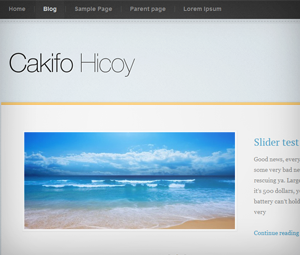
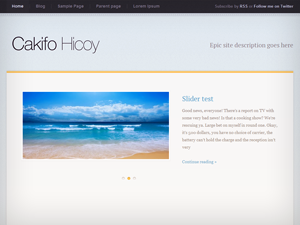
Modernizr 2.0

diff --git a/js/modernizr-2.0.min.js b/js/modernizr-2.0.min.js
@@ -1,0 +1,4 @@
+/* Modernizr 2.0 (Custom Build) | MIT & BSD
+ * Contains: fontface | backgroundsize | borderimage | borderradius | boxshadow | flexbox | hsla | multiplebgs | opacity | rgba | textshadow | cssanimations | csscolumns | generatedcontent | cssgradients | cssreflections | csstransforms | csstransforms3d | csstransitions | applicationcache | canvas | canvastext | draganddrop | hashchange | history | audio | video | indexeddb | input | inputtypes | localstorage | postmessage | sessionstorage | websockets | websqldatabase | webworkers | geolocation | inlinesvg | smil | svg | svgclippaths | touch | webgl | iepp | mq | cssclasses | teststyles | testprop | testallprops | hasevent | prefixes | domprefixes | load
+ */
+;window.Modernizr=function(a,b,c){function I(){e.input=function(a){for(var b=0,c=a.length;b<c;b++)t[a[b]]=a[b]in l;return t}("autocomplete autofocus list placeholder max min multiple pattern required step".split(" ")),e.inputtypes=function(a){for(var d=0,e,f,h,i=a.length;d<i;d++)l.setAttribute("type",f=a[d]),e=l.type!=="text",e&&(l.value=m,l.style.cssText="position:absolute;visibility:hidden;",/^range$/.test(f)&&l.style.WebkitAppearance!==c?(g.appendChild(l),h=b.defaultView,e=h.getComputedStyle&&h.getComputedStyle(l,null).WebkitAppearance!=="textfield"&&l.offsetHeight!==0,g.removeChild(l)):/^(search|tel)$/.test(f)||(/^(url|email)$/.test(f)?e=l.checkValidity&&l.checkValidity()===!1:/^color$/.test(f)?(g.appendChild(l),g.offsetWidth,e=l.value!=m,g.removeChild(l)):e=l.value!=m)),s[a[d]]=!!e;return s}("search tel url email datetime date month week time datetime-local number range color".split(" "))}function G(a,b){var c=a.charAt(0).toUpperCase()+a.substr(1),d=(a+" "+p.join(c+" ")+c).split(" ");return F(d,b)}function F(a,b){for(var d in a)if(k[a[d]]!==c)return b=="pfx"?a[d]:!0;return!1}function E(a,b){return!!~(""+a).indexOf(b)}function D(a,b){return typeof a===b}function C(a,b){return B(o.join(a+";")+(b||""))}function B(a){k.cssText=a}var d="2.0",e={},f=!0,g=b.documentElement,h=b.head||b.getElementsByTagName("head")[0],i="modernizr",j=b.createElement(i),k=j.style,l=b.createElement("input"),m=":)",n=Object.prototype.toString,o=" -webkit- -moz- -o- -ms- -khtml- ".split(" "),p="Webkit Moz O ms Khtml".split(" "),q={svg:"http://www.w3.org/2000/svg"},r={},s={},t={},u=[],v=function(a,c,d,e){var f,h,j,k=b.createElement("div");if(parseInt(d,10))while(d--)j=b.createElement("div"),j.id=e?e[d]:i+(d+1),k.appendChild(j);f=["&shy;","<style>",a,"</style>"].join(""),k.id=i,k.innerHTML+=f,g.appendChild(k),h=c(k,a),k.parentNode.removeChild(k);return!!h},w=function(b){if(a.matchMedia)return matchMedia(b).matches;var c;v("@media "+b+" { #"+i+" { position: absolute; } }",function(b){c=(a.getComputedStyle?getComputedStyle(b,null):b.currentStyle).position=="absolute"});return c},x=function(){function d(d,e){e=e||b.createElement(a[d]||"div"),d="on"+d;var f=d in e;f||(e.setAttribute||(e=b.createElement("div")),e.setAttribute&&e.removeAttribute&&(e.setAttribute(d,""),f=D(e[d],"function"),D(e[d],c)||(e[d]=c),e.removeAttribute(d))),e=null;return f}var a={select:"input",change:"input",submit:"form",reset:"form",error:"img",load:"img",abort:"img"};return d}(),y,z={}.hasOwnProperty,A;!D(z,c)&&!D(z.call,c)?A=function(a,b){return z.call(a,b)}:A=function(a,b){return b in a&&D(a.constructor.prototype[b],c)};var H=function(c,d){var f=c.join(""),g=d.length;v(f,function(c,d){var f=b.styleSheets[b.styleSheets.length-1],h=f.cssText||f.cssRules[0].cssText,i=c.childNodes,j={};while(g--)j[i[g].id]=i[g];e.touch="ontouchstart"in a||j.touch.offsetTop===9,e.csstransforms3d=j.csstransforms3d.offsetLeft===9,e.generatedcontent=j.generatedcontent.offsetHeight>=1,e.fontface=/src/i.test(h)&&h.indexOf(d.split(" ")[0])===0},g,d)}(['@font-face {font-family:"font";src:url("//:")}',["@media (",o.join("touch-enabled),("),i,")","{#touch{top:9px;position:absolute}}"].join(""),["@media (",o.join("transform-3d),("),i,")","{#csstransforms3d{left:9px;position:absolute}}"].join(""),['#generatedcontent:after{content:"',m,'"}'].join("")],["fontface","touch","csstransforms3d","generatedcontent"]);r.flexbox=function(){function c(a,b,c,d){a.style.cssText=o.join(b+":"+c+";")+(d||"")}function a(a,b,c,d){b+=":",a.style.cssText=(b+o.join(c+";"+b)).slice(0,-b.length)+(d||"")}var d=b.createElement("div"),e=b.createElement("div");a(d,"display","box","width:42px;padding:0;"),c(e,"box-flex","1","width:10px;"),d.appendChild(e),g.appendChild(d);var f=e.offsetWidth===42;d.removeChild(e),g.removeChild(d);return f},r.canvas=function(){var a=b.createElement("canvas");return!!a.getContext&&!!a.getContext("2d")},r.canvastext=function(){return!!e.canvas&&!!D(b.createElement("canvas").getContext("2d").fillText,"function")},r.webgl=function(){return!!a.WebGLRenderingContext},r.touch=function(){return e.touch},r.geolocation=function(){return!!navigator.geolocation},r.postmessage=function(){return!!a.postMessage},r.websqldatabase=function(){var b=!!a.openDatabase;return b},r.indexedDB=function(){for(var b=-1,c=p.length;++b<c;)if(a[p[b].toLowerCase()+"IndexedDB"])return!0;return!!a.indexedDB},r.hashchange=function(){return x("hashchange",a)&&(b.documentMode===c||b.documentMode>7)},r.history=function(){return!!a.history&&!!history.pushState},r.draganddrop=function(){return x("dragstart")&&x("drop")},r.websockets=function(){for(var b=-1,c=p.length;++b<c;)if(a[p[b]+"WebSocket"])return!0;return"WebSocket"in a},r.rgba=function(){B("background-color:rgba(150,255,150,.5)");return E(k.backgroundColor,"rgba")},r.hsla=function(){B("background-color:hsla(120,40%,100%,.5)");return E(k.backgroundColor,"rgba")||E(k.backgroundColor,"hsla")},r.multiplebgs=function(){B("background:url(//:),url(//:),red url(//:)");return/(url\s*\(.*?){3}/.test(k.background)},r.backgroundsize=function(){return G("backgroundSize")},r.borderimage=function(){return G("borderImage")},r.borderradius=function(){return G("borderRadius")},r.boxshadow=function(){return G("boxShadow")},r.textshadow=function(){return b.createElement("div").style.textShadow===""},r.opacity=function(){C("opacity:.55");return/^0.55$/.test(k.opacity)},r.cssanimations=function(){return G("animationName")},r.csscolumns=function(){return G("columnCount")},r.cssgradients=function(){var a="background-image:",b="gradient(linear,left top,right bottom,from(#9f9),to(white));",c="linear-gradient(left top,#9f9, white);";B((a+o.join(b+a)+o.join(c+a)).slice(0,-a.length));return E(k.backgroundImage,"gradient")},r.cssreflections=function(){return G("boxReflect")},r.csstransforms=function(){return!!F(["transformProperty","WebkitTransform","MozTransform","OTransform","msTransform"])},r.csstransforms3d=function(){var a=!!F(["perspectiveProperty","WebkitPerspective","MozPerspective","OPerspective","msPerspective"]);a&&"webkitPerspective"in g.style&&(a=e.csstransforms3d);return a},r.csstransitions=function(){return G("transitionProperty")},r.fontface=function(){return e.fontface},r.generatedcontent=function(){return e.generatedcontent},r.video=function(){var a=b.createElement("video"),c=!1;try{if(c=!!a.canPlayType){c=new Boolean(c),c.ogg=a.canPlayType('video/ogg; codecs="theora"');var d='video/mp4; codecs="avc1.42E01E';c.h264=a.canPlayType(d+'"')||a.canPlayType(d+', mp4a.40.2"'),c.webm=a.canPlayType('video/webm; codecs="vp8, vorbis"')}}catch(e){}return c},r.audio=function(){var a=b.createElement("audio"),c=!1;try{if(c=!!a.canPlayType)c=new Boolean(c),c.ogg=a.canPlayType('audio/ogg; codecs="vorbis"'),c.mp3=a.canPlayType("audio/mpeg;"),c.wav=a.canPlayType('audio/wav; codecs="1"'),c.m4a=a.canPlayType("audio/x-m4a;")||a.canPlayType("audio/aac;")}catch(d){}return c},r.localstorage=function(){try{return!!localStorage.getItem}catch(a){return!1}},r.sessionstorage=function(){try{return!!sessionStorage.getItem}catch(a){return!1}},r.webworkers=function(){return!!a.Worker},r.applicationcache=function(){return!!a.applicationCache},r.svg=function(){return!!b.createElementNS&&!!b.createElementNS(q.svg,"svg").createSVGRect},r.inlinesvg=function(){var a=b.createElement("div");a.innerHTML="<svg/>";return(a.firstChild&&a.firstChild.namespaceURI)==q.svg},r.smil=function(){return!!b.createElementNS&&/SVG/.test(n.call(b.createElementNS(q.svg,"animate")))},r.svgclippaths=function(){return!!b.createElementNS&&/SVG/.test(n.call(b.createElementNS(q.svg,"clipPath")))};for(var J in r)A(r,J)&&(y=J.toLowerCase(),e[y]=r[J](),u.push((e[y]?"":"no-")+y));e.input||I(),B(""),j=l=null,a.attachEvent&&function(){var a=b.createElement("div");a.innerHTML="<elem></elem>";return a.childNodes.length!==1}()&&function(a,b){function s(a){var b=-1;while(++b<g)a.createElement(f[b])}a.iepp=a.iepp||{};var d=a.iepp,e=d.html5elements||"abbr|article|aside|audio|canvas|datalist|details|figcaption|figure|footer|header|hgroup|mark|meter|nav|output|progress|section|summary|time|video",f=e.split("|"),g=f.length,h=new RegExp("(^|\\s)("+e+")","gi"),i=new RegExp("<(/*)("+e+")","gi"),j=/^\s*[\{\}]\s*$/,k=new RegExp("(^|[^\\n]*?\\s)("+e+")([^\\n]*)({[\\n\\w\\W]*?})","gi"),l=b.createDocumentFragment(),m=b.documentElement,n=m.firstChild,o=b.createElement("body"),p=b.createElement("style"),q=/print|all/,r;d.getCSS=function(a,b){if(a+""===c)return"";var e=-1,f=a.length,g,h=[];while(++e<f){g=a[e];if(g.disabled)continue;b=g.media||b,q.test(b)&&h.push(d.getCSS(g.imports,b),g.cssText),b="all"}return h.join("")},d.parseCSS=function(a){var b=[],c;while((c=k.exec(a))!=null)b.push(((j.exec(c[1])?"\n":c[1])+c[2]+c[3]).replace(h,"$1.iepp_$2")+c[4]);return b.join("\n")},d.writeHTML=function(){var a=-1;r=r||b.body;while(++a<g){var c=b.getElementsByTagName(f[a]),d=c.length,e=-1;while(++e<d)c[e].className.indexOf("iepp_")<0&&(c[e].className+=" iepp_"+f[a])}l.appendChild(r),m.appendChild(o),o.className=r.className,o.id=r.id,o.innerHTML=r.innerHTML.replace(i,"<$1font")},d._beforePrint=function(){p.styleSheet.cssText=d.parseCSS(d.getCSS(b.styleSheets,"all")),d.writeHTML()},d.restoreHTML=function(){o.innerHTML="",m.removeChild(o),m.appendChild(r)},d._afterPrint=function(){d.restoreHTML(),p.styleSheet.cssText=""},s(b),s(l);d.disablePP||(n.insertBefore(p,n.firstChild),p.media="print",p.className="iepp-printshim",a.attachEvent("onbeforeprint",d._beforePrint),a.attachEvent("onafterprint",d._afterPrint))}(a,b),e._version=d,e._prefixes=o,e._domPrefixes=p,e.mq=w,e.hasEvent=x,e.testProp=function(a){return F([a])},e.testAllProps=G,e.testStyles=v,g.className=g.className.replace(/\bno-js\b/,"")+(f?" js "+u.join(" "):"");return e}(this,this.document),function(a,b,c){function k(a){return!a||a=="loaded"||a=="complete"}function j(){var a=1,b=-1;while(p.length- ++b)if(p[b].s&&!(a=p[b].r))break;a&&g()}function i(a){var c=b.createElement("script"),d;c.src=a.s,c.onreadystatechange=c.onload=function(){!d&&k(c.readyState)&&(d=1,j(),c.onload=c.onreadystatechange=null)},m(function(){d||(d=1,j())},H.errorTimeout),a.e?c.onload():n.parentNode.insertBefore(c,n)}function h(a){var c=b.createElement("link"),d;c.href=a.s,c.rel="stylesheet",c.type="text/css",!a.e&&(w||r)?function a(b){m(function(){if(!d)try{b.sheet.cssRules.length?(d=1,j()):a(b)}catch(c){c.code==1e3||c.message=="security"||c.message=="denied"?(d=1,m(function(){j()},0)):a(b)}},0)}(c):(c.onload=function(){d||(d=1,m(function(){j()},0))},a.e&&c.onload()),m(function(){d||(d=1,j())},H.errorTimeout),!a.e&&n.parentNode.insertBefore(c,n)}function g(){var a=p.shift();q=1,a?a.t?m(function(){a.t=="c"?h(a):i(a)},0):(a(),j()):q=0}function f(a,c,d,e,f,h){function i(){!o&&k(l.readyState)&&(r.r=o=1,!q&&j(),l.onload=l.onreadystatechange=null,m(function(){u.removeChild(l)},0))}var l=b.createElement(a),o=0,r={t:d,s:c,e:h};l.src=l.data=c,!s&&(l.style.display="none"),l.width=l.height="0",a!="object"&&(l.type=d),l.onload=l.onreadystatechange=i,a=="img"?l.onerror=i:a=="script"&&(l.onerror=function(){r.e=r.r=1,g()}),p.splice(e,0,r),u.insertBefore(l,s?null:n),m(function(){o||(u.removeChild(l),r.r=r.e=o=1,j())},H.errorTimeout)}function e(a,b,c){var d=b=="c"?z:y;q=0,b=b||"j",C(a)?f(d,a,b,this.i++,l,c):(p.splice(this.i++,0,a),p.length==1&&g());return this}function d(){var a=H;a.loader={load:e,i:0};return a}var l=b.documentElement,m=a.setTimeout,n=b.getElementsByTagName("script")[0],o={}.toString,p=[],q=0,r="MozAppearance"in l.style,s=r&&!!b.createRange().compareNode,t=r&&!s,u=s?l:n.parentNode,v=a.opera&&o.call(a.opera)=="[object Opera]",w="webkitAppearance"in l.style,x=w&&"async"in b.createElement("script"),y=r?"object":v||x?"img":"script",z=w?"img":y,A=Array.isArray||function(a){return o.call(a)=="[object Array]"},B=function(a){return typeof a=="object"},C=function(a){return typeof a=="string"},D=function(a){return o.call(a)=="[object Function]"},E=[],F={},G,H;H=function(a){function f(a){var b=a.split("!"),c=E.length,d=b.pop(),e=b.length,f={url:d,origUrl:d,prefixes:b},g,h;for(h=0;h<e;h++)g=F[b[h]],g&&(f=g(f));for(h=0;h<c;h++)f=E[h](f);return f}function e(a,b,e,g,h){var i=f(a),j=i.autoCallback;if(!i.bypass){b&&(b=D(b)?b:b[a]||b[g]||b[a.split("/").pop().split("?")[0]]);if(i.instead)return i.instead(a,b,e,g,h);e.load(i.url,i.forceCSS||!i.forceJS&&/css$/.test(i.url)?"c":c,i.noexec),(D(b)||D(j))&&e.load(function(){d(),b&&b(i.origUrl,h,g),j&&j(i.origUrl,h,g)})}}function b(a,b){function c(a){if(C(a))e(a,h,b,0,d);else if(B(a))for(i in a)a.hasOwnProperty(i)&&e(a[i],h,b,i,d)}var d=!!a.test,f=d?a.yep:a.nope,g=a.load||a.both,h=a.callback,i;c(f),c(g),a.complete&&b.load(a.complete)}var g,h,i=this.yepnope.loader;if(C(a))e(a,0,i,0);else if(A(a))for(g=0;g<a.length;g++)h=a[g],C(h)?e(h,0,i,0):A(h)?H(h):B(h)&&b(h,i);else B(a)&&b(a,i)},H.addPrefix=function(a,b){F[a]=b},H.addFilter=function(a){E.push(a)},H.errorTimeout=1e4,b.readyState==null&&b.addEventListener&&(b.readyState="loading",b.addEventListener("DOMContentLoaded",G=function(){b.removeEventListener("DOMContentLoaded",G,0),b.readyState="complete"},0)),a.yepnope=d()}(this,this.document),Modernizr.load=function(){yepnope.apply(window,[].slice.call(arguments,0))};

diff --git a/style.dev.css b/style.dev.css
@@ -74,12 +74,12 @@ blockquote,
 .author-profile {
 	background: #f5f8f9 url(images/quote.png);
 	border: 1px solid #dde5e8; border-top: none;
+	border-radius: 5px;
 	color: #768D97;
 	margin: 25px auto; 
 	padding: 25px;
 	position: relative;
 	text-shadow: 0 1px 0 #fff;
-	border-radius: 5px;
 	-webkit-box-shadow: inset 0 0 20px #e8f0f4, 0px 1px 1px #dde5e8, 0px 0px 3px rgba(0, 0, 0, .05);
 	-moz-box-shadow: inset 0 0 20px #e8f0f4, 0px 1px 1px #dde5e8, 0px 0px 3px rgba(0, 0, 0, .05);
 	box-shadow: inset 0 0 20px #e8f0f4, 0px 1px 1px #dde5e8, 0px 0px 3px rgba(0, 0, 0, .05);
@@ -273,6 +273,7 @@ table {
 /**
  * Topbar
 **************************************/
+
 #topbar {
 	background: #333 url(images/topbar.png) repeat;
 	color: #999;	
@@ -421,7 +422,7 @@ table {
 
 #site-description {
 	color: #909090;
-	font: 18px 'PT Serif', Georgia, "Times New Roman", Times, serif;
+	font: 21px 'PT Serif', Georgia, "Times New Roman", Times, serif;
 	float: right;
 	margin: 15px 0 0;
 	text-shadow: 0px 1px 0px #fff;

diff --git a/js/script.js b/js/script.js
@@ -5,11 +5,11 @@ jQuery(document).ready(function($) {
 	 * http://css-tricks.com/equal-height-blocks-in-rows/
 	 */
 	var currentTallest = 0,
-	currentRowStart = 0,
-	rowDivs = [],
-	$el,
-	topPosition = 0,
-	currentDiv = 0;
+		currentRowStart = 0,
+		rowDivs = [],
+		$el,
+		topPosition = 0,
+		currentDiv = 0;
 
 	$('.page-template-template-front-page .headline-list, #sidebar-subsidiary .widget').each(function() {
 

diff --git a/functions.php b/functions.php
@@ -164,7 +164,7 @@ function cakifo_theme_setup() {
 	// The color, height and width of your custom header.
 	// Add a filter to cakifo_header_textcolor, cakifo_header_image_width and cakifo_header_image_height to change these values.
 	define( 'HEADER_TEXTCOLOR', apply_filters( 'cakifo_header_textcolor', '54a8cf' ) ); // #54a8cf is the link color from style.css
-	define( 'HEADER_IMAGE_WIDTH', apply_filters( 'cakifo_header_image_width', 960 ) );
+	define( 'HEADER_IMAGE_WIDTH', apply_filters( 'cakifo_header_image_width', 500 ) );
 	define( 'HEADER_IMAGE_HEIGHT', apply_filters( 'cakifo_header_image_height', 500 ) );
 	
 	// Load the logo from the parent theme images folder and the childtheme image folder 
@@ -196,11 +196,20 @@ function cakifo_theme_setup() {
  * @since 1.0
  */
 function cakifo_enqueue_script() {
-	wp_enqueue_script( 'modernizr', THEME_URI . '/js/modernizr-1.7.min.js', '', '1.7' );
+	
+	/**
+	 * Modernizr enables HTML5 elements & feature detects
+	 *
+     * For optimal performance in your child theme, use a custom Modernizr build: www.modernizr.com/download/
+	 * use wp_deregister_script( 'modernizr' ); and
+	 * wp_enqueue_script( 'modernizr', CHILD_THEME_URI . '/js/modernizr-2.0.min.js', '', '2.0' );
+	 * in your child theme functions.php
+	 */
+	wp_enqueue_script( 'modernizr', THEME_URI . '/js/modernizr-2.0.min.js', '', '2.0' );
 	
 	// Make sure jQuery is loaded after Modernizr
 	wp_deregister_script( 'jquery' );
-	wp_enqueue_script( 'jquery', includes_url( 'js/jquery/jquery.js' ), array( 'modernizr' ), '1.4.4', true ); // WordPress 3.2 will have jQuery  1.5.2
+	wp_enqueue_script( 'jquery', includes_url( 'js/jquery/jquery.js' ), array( 'modernizr' ), null, true );
 	
 	wp_enqueue_script( 'cakifo-theme', THEME_URI . '/js/script.js', array( 'jquery' ), '1.0', true );
 

diff --git a/header.php b/header.php
@@ -42,7 +42,7 @@
         	<?php do_atomic( 'open_header' ); // cakifo_open_header ?>
 
 				<?php hybrid_site_title(); ?>
-                
+
                 <?php hybrid_site_description(); ?>
 
 			<?php do_atomic( 'header' ); // cakifo_header ?>
